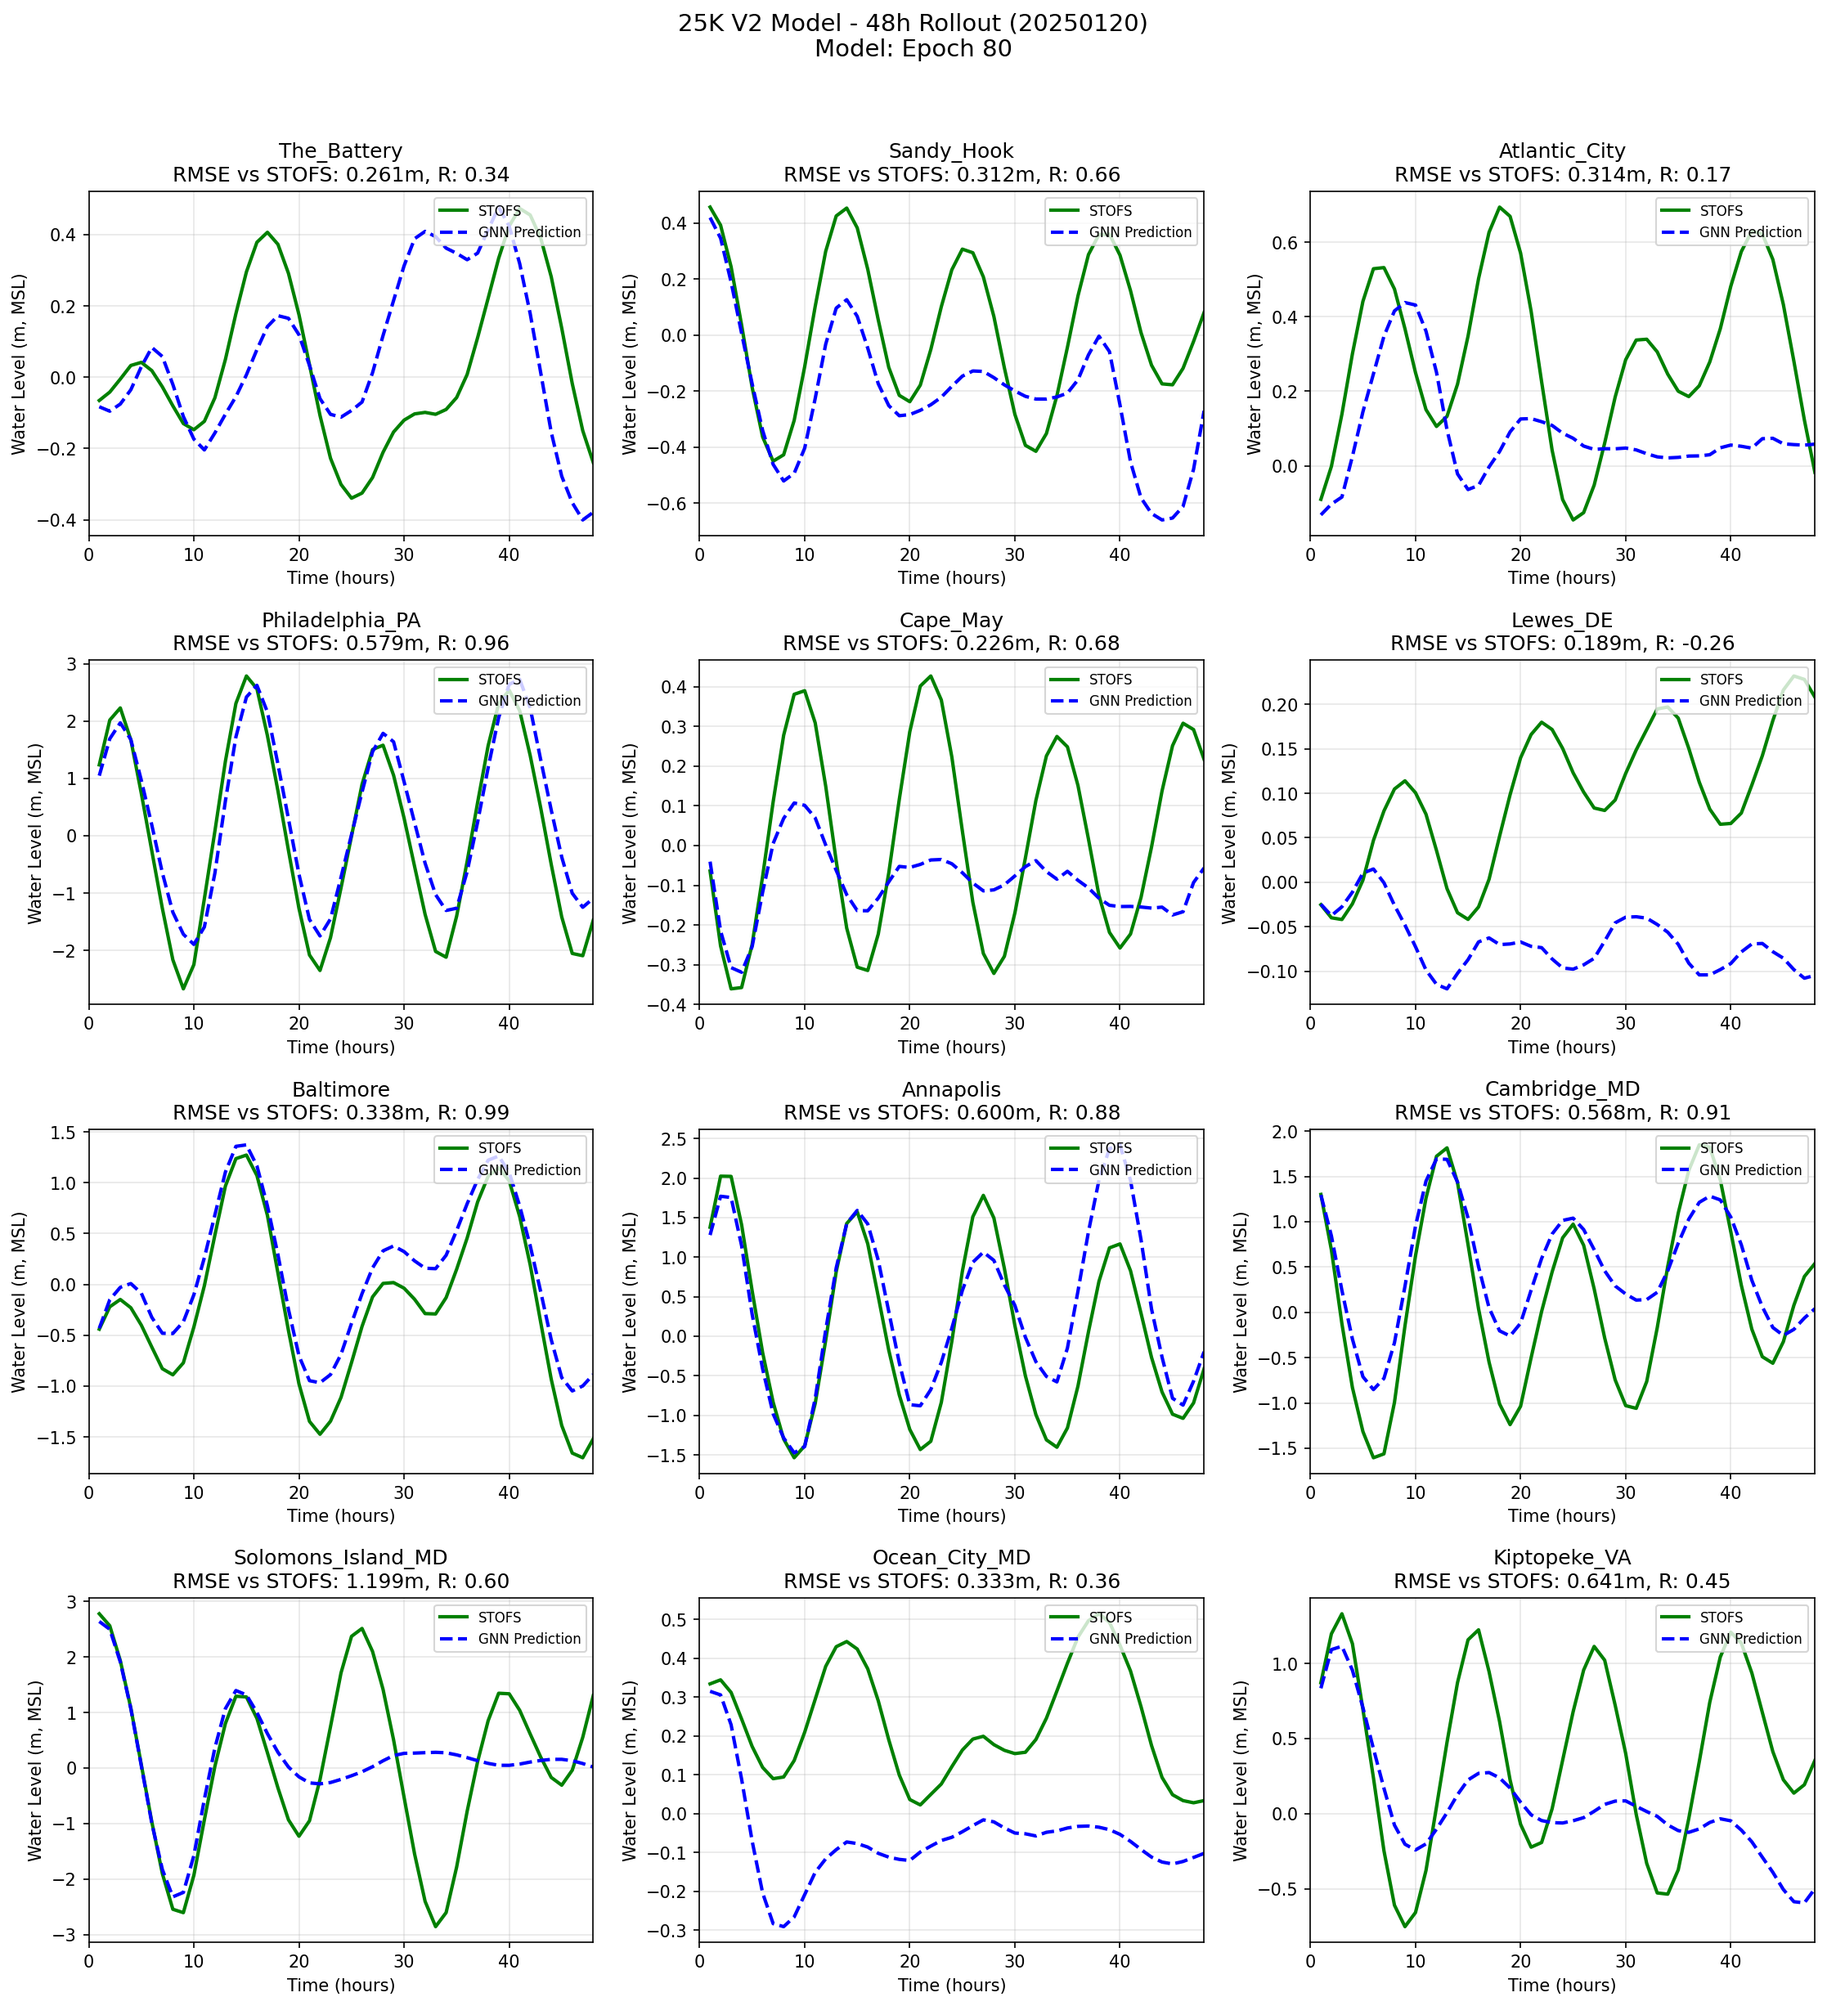
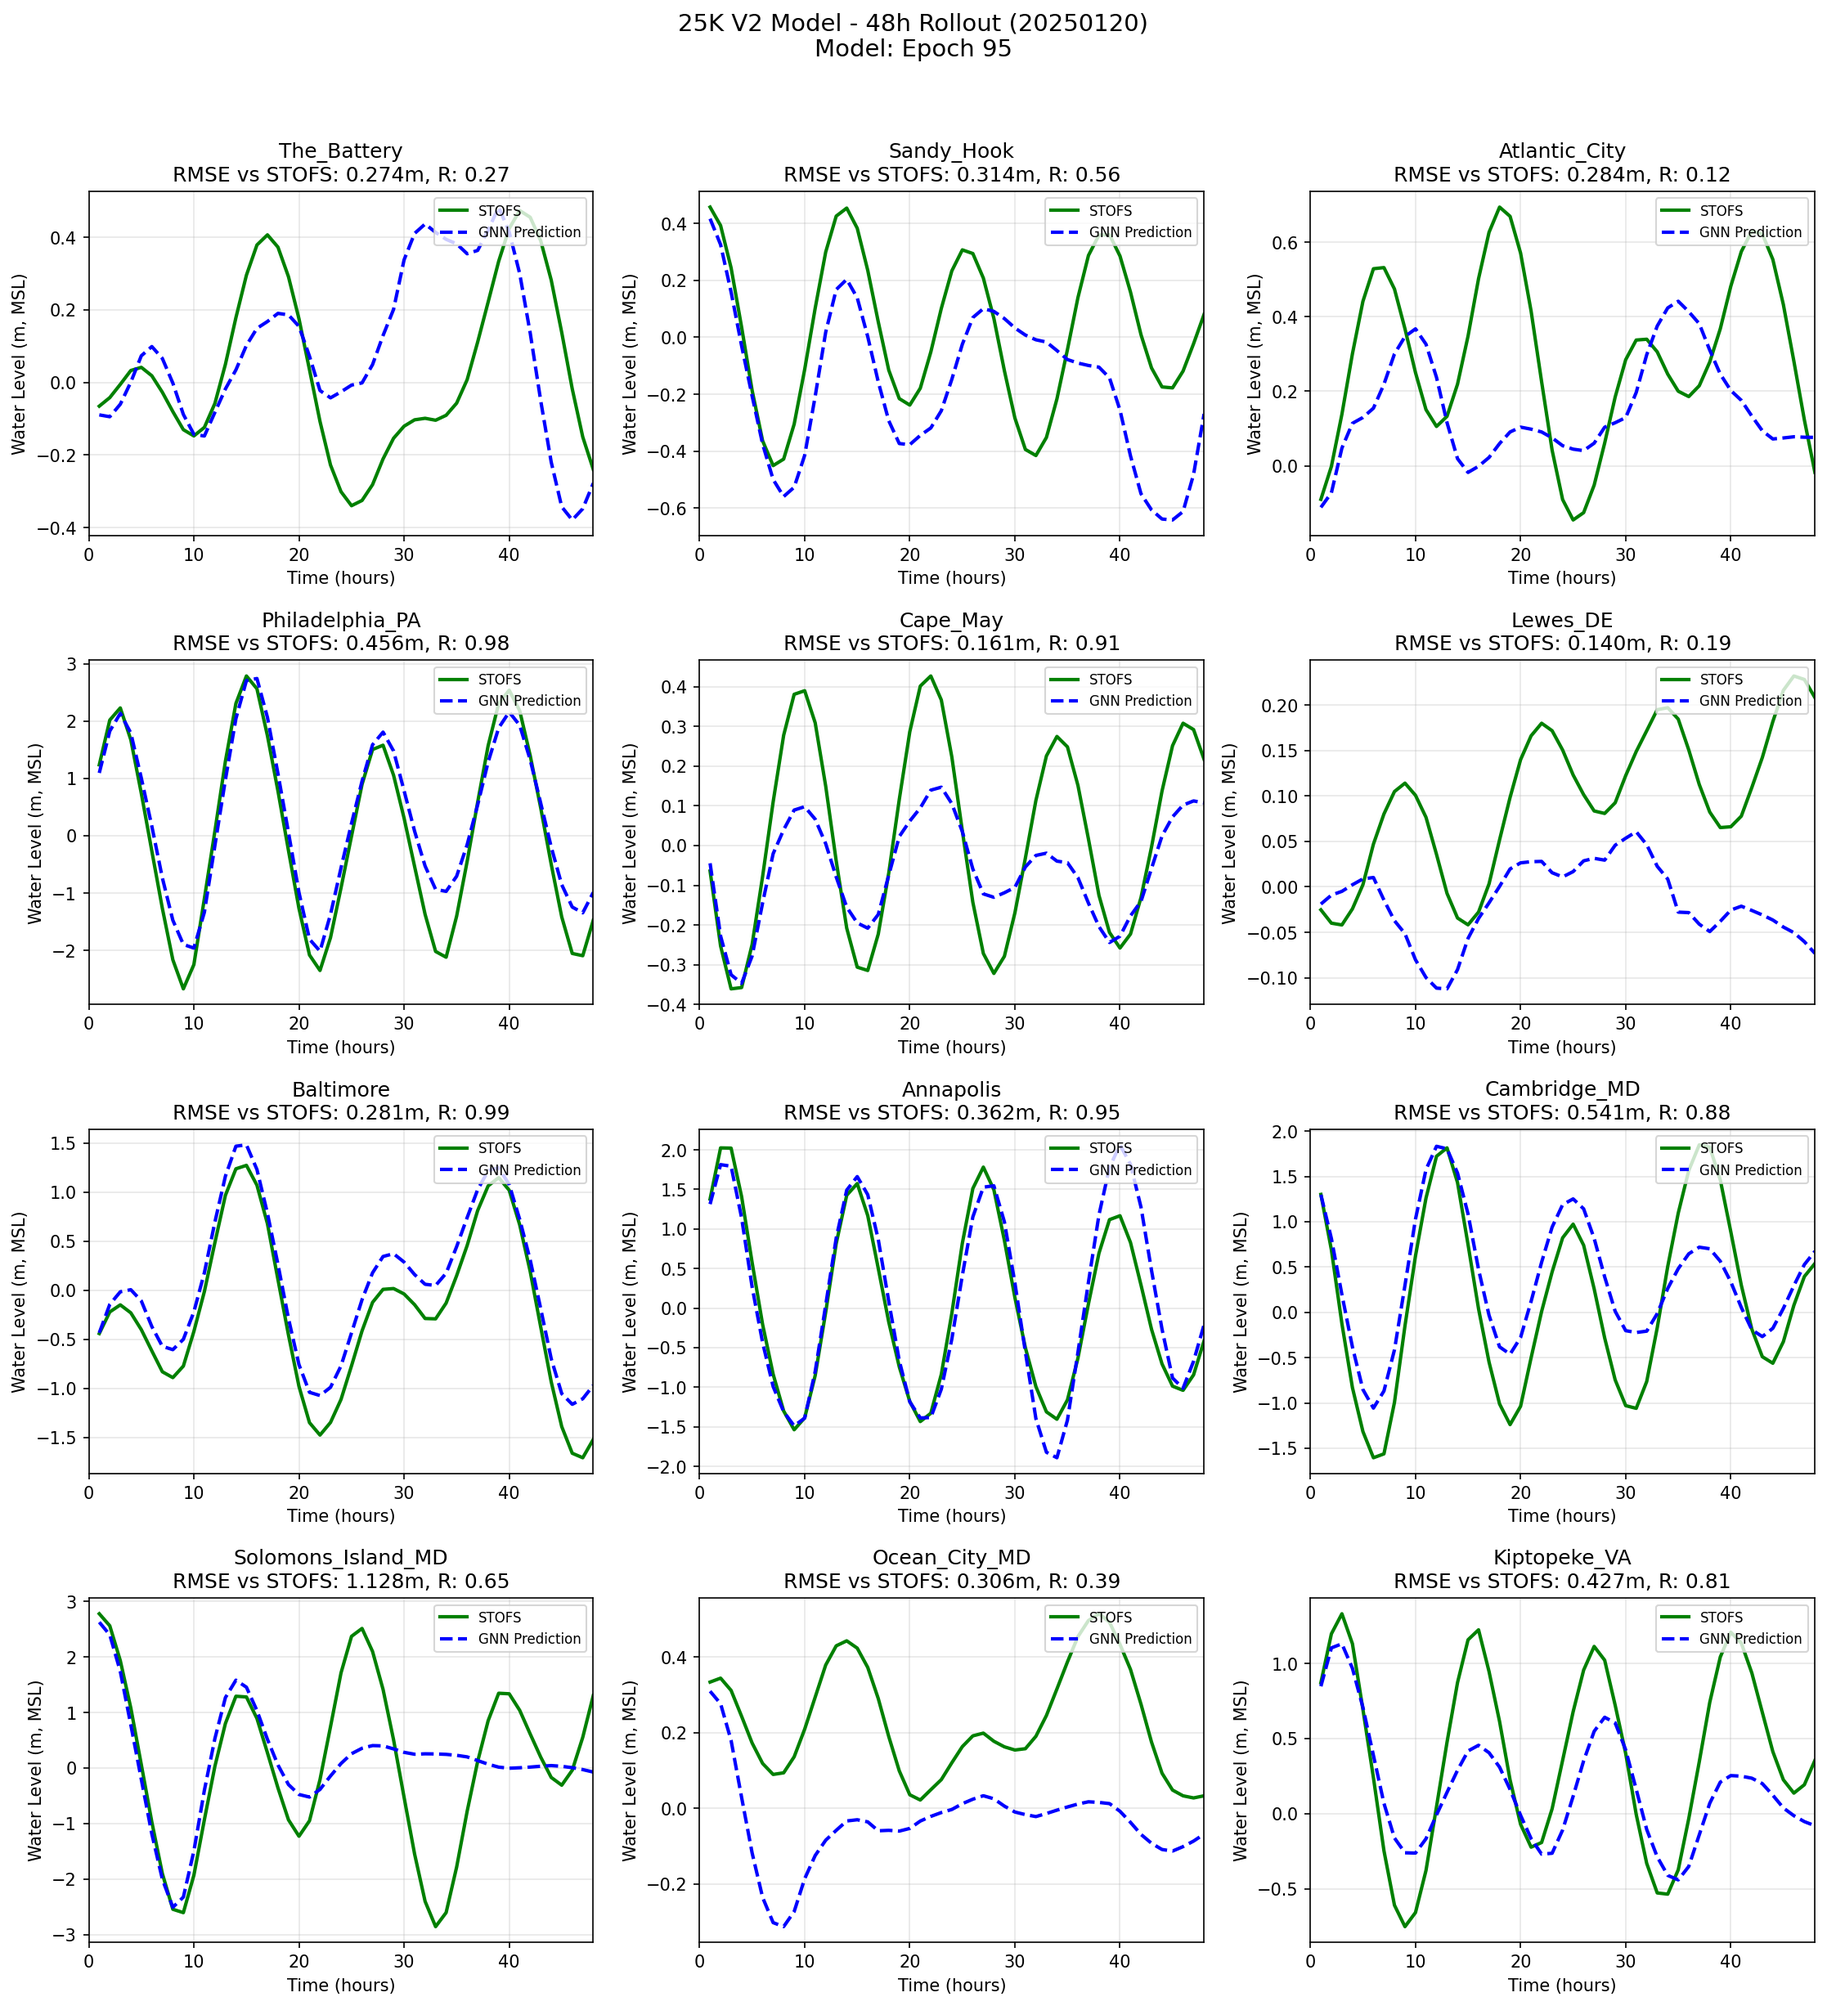
Update station timeseries figure to epoch 95 checkpoint
- Regenerated station_timeseries_v2.png with epoch 95 (12-step rollout)
- Updated station validation table with ep95 results for 8 stations
- Baltimore R=0.99, Philadelphia R=0.98, Annapolis R=0.95

diff --git a/README.md b/README.md
@@ -65,15 +65,18 @@ Input Features (27 dim)
 | t+24h     | 28.9      |
 | t+48h     | 38.4      |
 
-### Station-Level Validation
+### Station-Level Validation (48h rollout, epoch 95, Jan 20 2025)
 
 | Station | Location | RMSE (cm) | Correlation |
 |---------|----------|-----------|-------------|
-| Baltimore     | Chesapeake Bay (inner) | 8.2  | 0.99 |
-| Annapolis     | Chesapeake Bay (mid)   | 10.5 | 0.97 |
-| The Battery   | NY Harbor              | 15.3 | 0.95 |
-| Atlantic City | NJ Coast               | 18.7 | 0.93 |
-| Lewes, DE     | Delaware Bay           | 14.2 | 0.94 |
+| Baltimore     | Chesapeake Bay (inner) | 28.1 | 0.99 |
+| Annapolis     | Chesapeake Bay (mid)   | 36.2 | 0.95 |
+| The Battery   | NY Harbor              | 27.4 | 0.27 |
+| Atlantic City | NJ Coast               | 28.4 | 0.12 |
+| Lewes, DE     | Delaware Bay           | 14.0 | 0.19 |
+| Cape May      | Delaware Bay mouth     | 16.1 | 0.91 |
+| Philadelphia  | Delaware River         | 45.0 | 0.98 |
+| Kiptopeke, VA | Chesapeake Bay mouth   | 42.7 | 0.81 |
 
 ### Computational Performance
 
@@ -104,7 +107,7 @@ Input Features (27 dim)
 ### Station Time Series Validation (48h rollout)
 
 ![Station Validation](docs/figures/station_timeseries_v2.png)
-*48-hour forecast validation at 12 Mid-Atlantic tide gauge stations (Jan 20, 2025). Green: STOFS ground truth. Blue dashed: GNN prediction. The model captures tidal phase and amplitude across protected bays (Baltimore R=0.99) and open coast stations.*
+*48-hour forecast validation at 12 Mid-Atlantic tide gauge stations (Jan 20, 2025, epoch 95). Green: STOFS ground truth. Blue dashed: GNN prediction. Strong tidal phase capture in protected bays (Baltimore R=0.99, Philadelphia R=0.98, Annapolis R=0.95).*
 
 ## Installation
 
